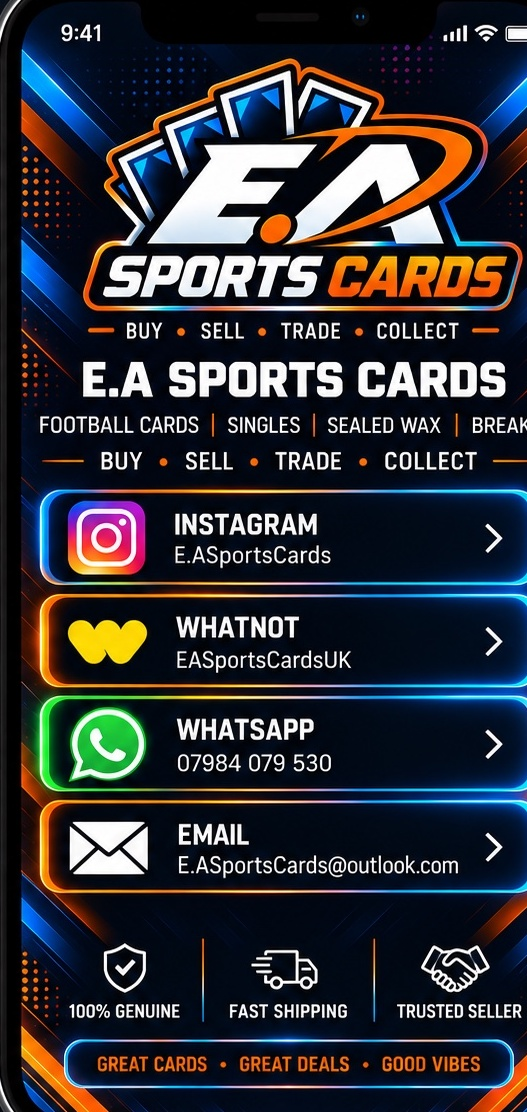
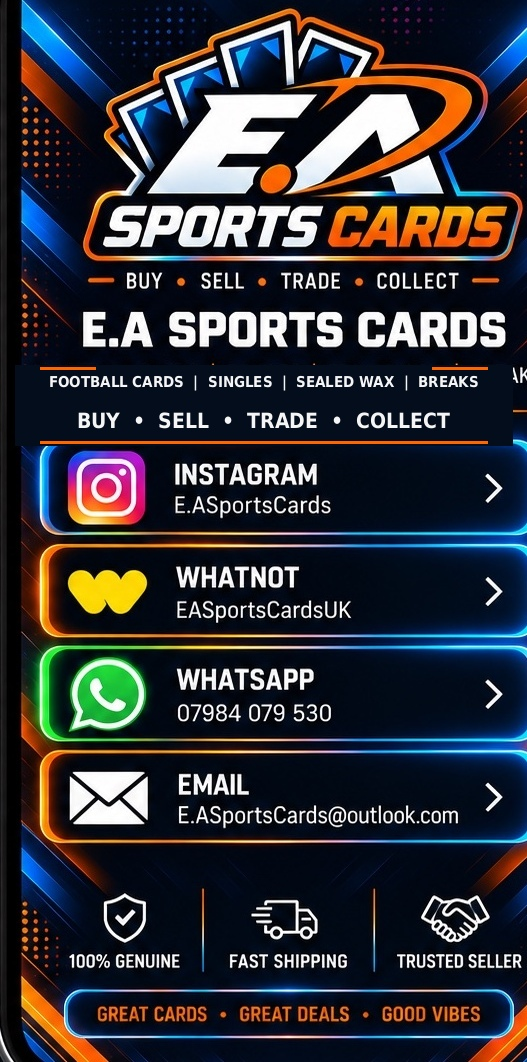
Add files via upload

diff --git a/index.html b/index.html
@@ -10,10 +10,10 @@
   .card{position:relative;width:min(100vw, 527px);line-height:0;}
   .card img{display:block;width:100%;height:auto;}
   .hit{position:absolute;left:5.2%;width:89.8%;height:8.2%;z-index:2;display:block;border-radius:24px;}
-  .instagram{top:42.4%;}
-  .whatnot{top:51.5%;}
-  .whatsapp{top:60.5%;}
-  .email{top:69.5%;}
+  .instagram{top:39.7%;}
+  .whatnot{top:49.2%;}
+  .whatsapp{top:58.6%;}
+  .email{top:68.1%;}
   .hit:focus-visible{outline:3px solid #fff;outline-offset:2px;}
   @media (min-width:528px){
     body{padding:20px 0;}
